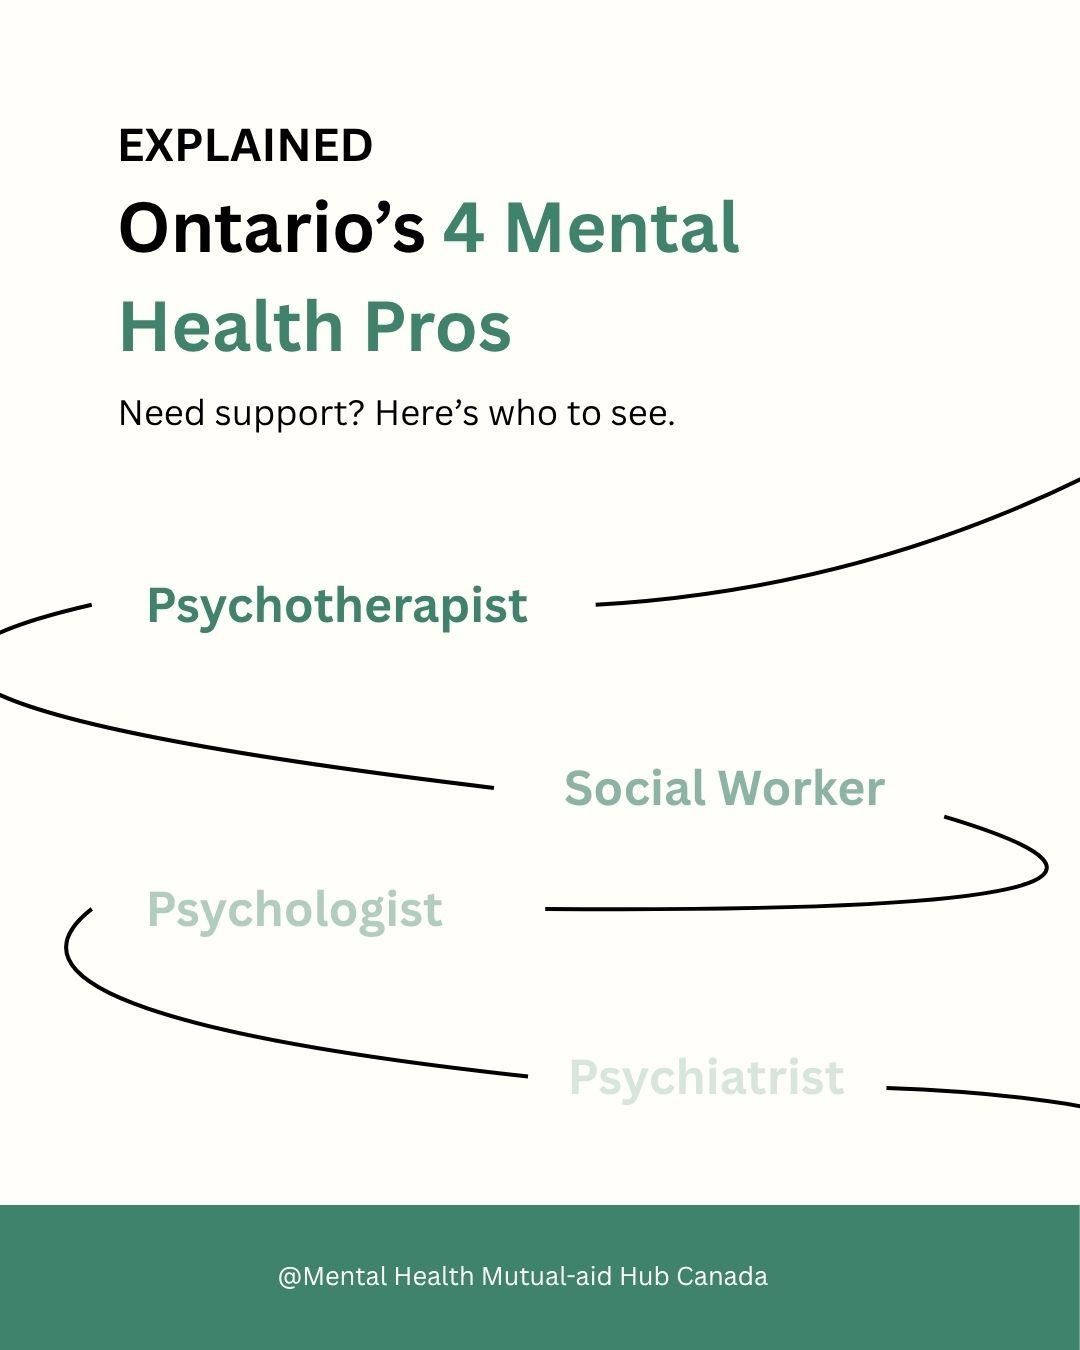
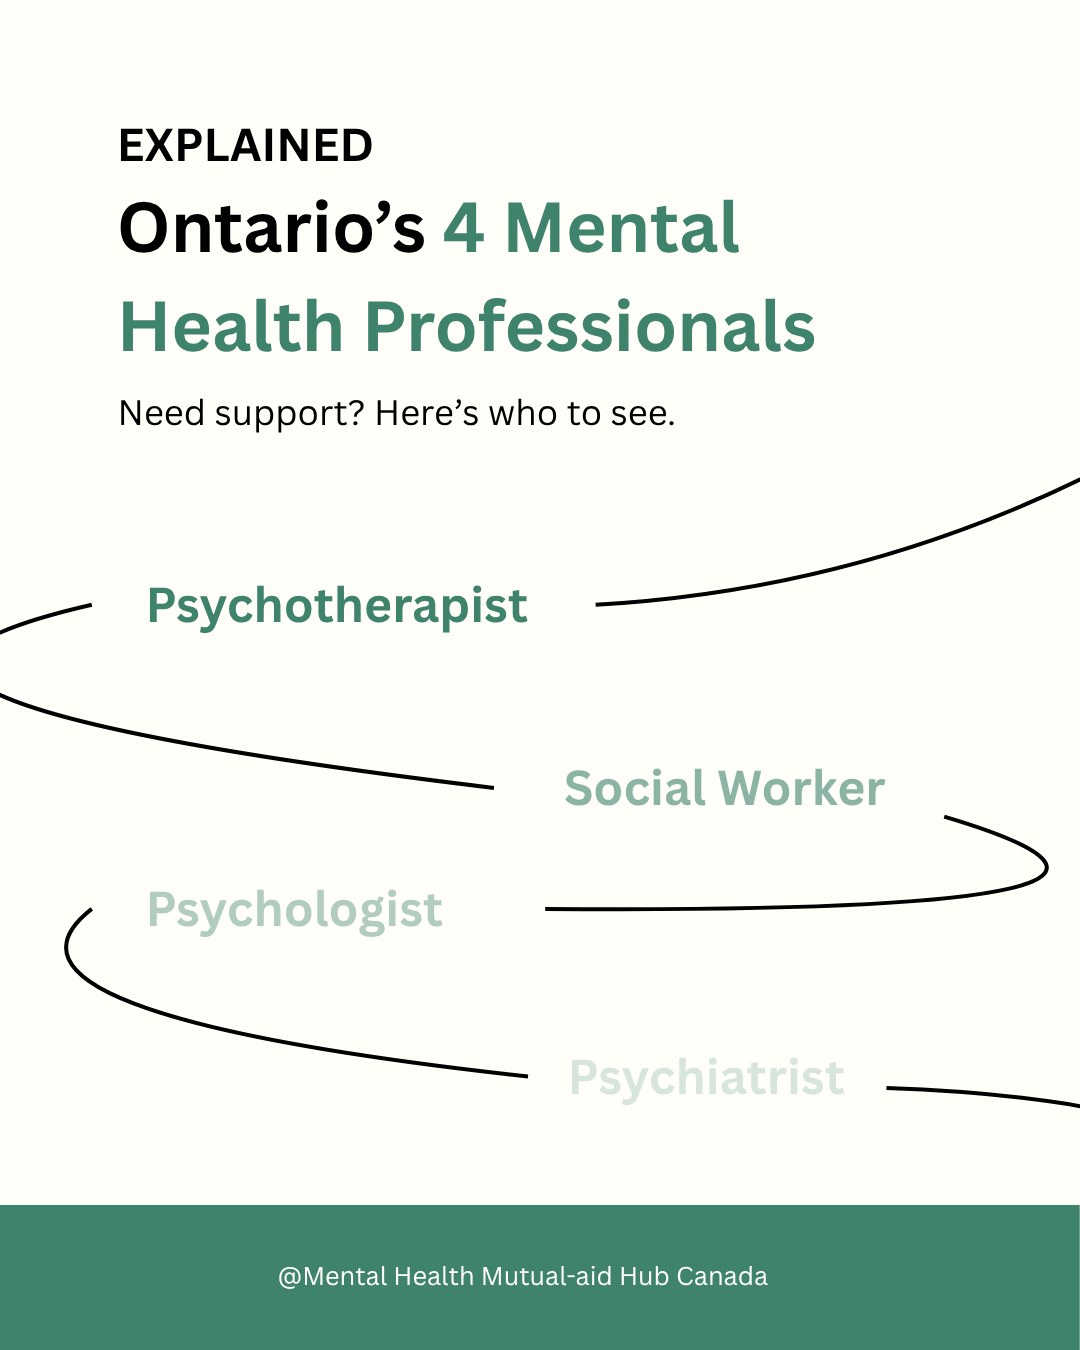
English explainer cover: Professionals instead of Pros
Claude-Session: https://claude.ai/code/session_01AUKFiyHWpQkFUYuPpce31C

Changed region(s): [[0.4278, 0.2178, 0.7639, 0.28]]

diff --git a/script.js b/script.js
@@ -390,8 +390,8 @@ const CAROUSEL = {
     pair: i
   })),
   en: [1, 2, 3, 4, 5, 6, 7].map(i => ({
-    src: `assets/carousel/mh-pros-en-${i}.jpg`,
-    alt: `Slide ${i} of 7 of the English adaptation: Ontario's 4 mental health pros explained`,
+    src: `assets/carousel/mh-pros-en-${i}.jpg?v=2`,
+    alt: `Slide ${i} of 7 of the English adaptation: Ontario's 4 mental health professionals explained`,
     pair: i
   }))
 };
@@ -425,7 +425,7 @@ function setLang(next) {
   track.style.transition = "";
   document.querySelectorAll(".lang-btn").forEach(b => b.setAttribute("aria-pressed", String(b.dataset.lang === lang)));
   const title = document.getElementById("feature-title");
-  title.textContent = lang === "zh" ? "一文读懂安省四大心理健康专家区别" : "Explained: Ontario’s 4 Mental Health Pros";
+  title.textContent = lang === "zh" ? "一文读懂安省四大心理健康专家区别" : "Explained: Ontario’s 4 Mental Health Professionals";
   title.setAttribute("lang", lang === "zh" ? "zh" : "en");
   document.getElementById("carousel").classList.add("swapping");
   setTimeout(() => document.getElementById("carousel").classList.remove("swapping"), 350);

diff --git a/index.html b/index.html
@@ -18,7 +18,7 @@
   <link rel="preconnect" href="https://fonts.googleapis.com">
   <link rel="preconnect" href="https://fonts.gstatic.com" crossorigin>
   <link href="https://fonts.googleapis.com/css2?family=Newsreader:ital,opsz,wght@0,6..72,300..600;1,6..72,300..600&family=DM+Sans:wght@400;500;600&display=swap" rel="stylesheet">
-  <link rel="stylesheet" href="styles.css?v=20261013g">
+  <link rel="stylesheet" href="styles.css?v=20261013i">
 </head>
 <body>
   <a class="skip" href="#main">Skip to content</a>
@@ -271,6 +271,6 @@
     <img class="scroll-cat-icon" id="scroll-cat" src="assets/icon.svg" alt="" width="34" height="34">
   </div>
 
-  <script src="script.js?v=20261013g"></script>
+  <script src="script.js?v=20261013i"></script>
 </body>
 </html>
